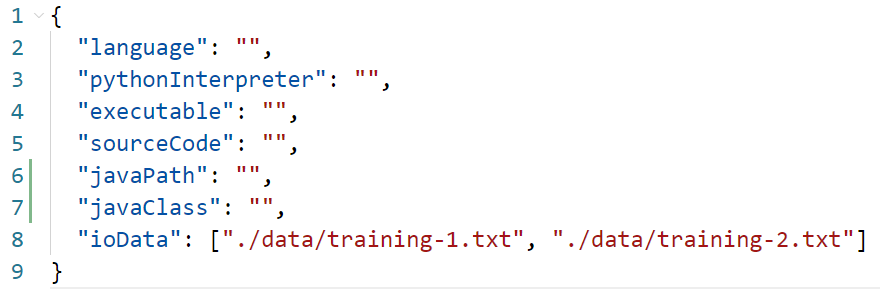
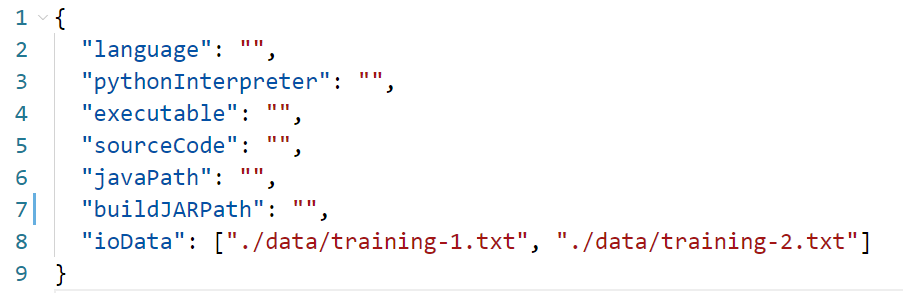
[update] 0.3.0更新：修改java的一些逻辑，加入新功能

diff --git a/autograder.py b/autograder.py
@@ -101,6 +101,7 @@ def grader(testCmd, ioData):
     migTot = 0
     migHappenTime = []
     bombInfo = []
+    migOverInfo = []
     for day_i in range(len(fullInfo)):
         day = fullInfo[day_i]
         for server in day['purchase']:
@@ -117,6 +118,8 @@ def grader(testCmd, ioData):
             dayServerInfo[target].append(source)
             VMIDMap[source] = target
             migTot += 1
+            if cnt >= int(len(VMIDMap) / 200):
+                migOverInfo.append(('migOverflow', day_i + 1, cnt, mig, int(len(VMIDMap) / 200)))
             if not check_bomb(target, dayServerInfo[target], serverDict, VMDict, serverIDMap, VMIDTypeMap):
                 bombInfo.append(
                     ('Migration', day_i + 1, cnt, mig, target, serverIDMap[target], serverDict[serverIDMap[target]],
@@ -176,7 +179,7 @@ def grader(testCmd, ioData):
     plt.plot(range(len(fullInfo)), emptyRate, label='Empty Ratio')
     plt.xlabel('Days')
     plt.ylabel('Ratio')
-    plt.title('闲置率')
+    plt.title('Empty Ratio (How many servers are not in use)')
     plt.legend()
     plt.savefig(os.path.join(folderName, '1.png'))
     plt.clf()
@@ -184,7 +187,7 @@ def grader(testCmd, ioData):
     plt.plot(range(len(fullInfo)), energyCost, label='Energy Cost')
     plt.xlabel('Days')
     plt.ylabel('Money')
-    plt.title('运行成本')
+    plt.title('Energy Cost (When a server is in use, it leads to energy cost)')
     plt.legend()
     plt.savefig(os.path.join(folderName, '2.png'))
     plt.clf()
@@ -192,7 +195,7 @@ def grader(testCmd, ioData):
     plt.plot(range(len(fullInfo)), migHappenTime, label='Migration Times')
     plt.xlabel('Days')
     plt.ylabel('Times')
-    plt.title('迁移次数')
+    plt.title('Migration Times')
     plt.legend()
     plt.savefig(os.path.join(folderName, '3.png'))
     plt.clf()
@@ -200,12 +203,12 @@ def grader(testCmd, ioData):
     labels = ['{}\n{}cpu\n{}mem'.format(s, serverDict[s]['cpu'], serverDict[s]['memory']) for s in serverNums.keys()]
     sizes = list(serverNums.values())
     plt.pie(sizes, labels=labels, autopct='%1.2f%%')
-    plt.title('服务器占比')
+    plt.title('Server Types')
     plt.savefig(os.path.join(folderName, '4.png'))
     plt.clf()
 
     return os.path.split(ioData)[-1], hardCost, sum(energyCost), endTime - beginTime, sum(emptyRate) / len(
-        emptyRate), sum(energyCost) / len(energyCost), folderName, migTot, bombInfo
+        emptyRate), sum(energyCost) / len(energyCost), folderName, migTot, bombInfo, migOverInfo
 
 
 if __name__ == '__main__':
@@ -219,10 +222,10 @@ if __name__ == '__main__':
         exe = config['executable']
         sourceCode = config['sourceCode']
         javaPath = config['javaPath']
-        javaClassFile = config['javaClass']
+        javaJARFile = config['buildJARPath']
         ioDataList = config['ioData']
         print('AutoGrader Running with args: {}'.format(
-            [language, pypyPath, exe, sourceCode, javaPath, javaClassFile, ioDataList]))
+            [language, pypyPath, exe, sourceCode, javaPath, javaJARFile, ioDataList]))
 
         for d in tqdm(ioDataList, ncols=40):
             if language == 'c' or language == 'c++':
@@ -233,12 +236,13 @@ if __name__ == '__main__':
                 else:
                     testCmd = 'python \"{}\"<\"{}\"'.format(sourceCode, d)
             elif language == 'java':
-                filePath, classPath = os.path.split(javaClassFile)
-                classPath = os.path.splitext(classPath)[0]
+                filePath, JARPath = os.path.split(javaJARFile)
                 if javaPath:
-                    testCmd = '\"{}\" -cp \"{}\" \"{}\"<\"{}\"'.format(javaPath, filePath, classPath, d)
+                    testCmd = '\"{}\" -Djava.library.path=\"{}\" -classpath \"{}\" \"com.huawei.java.main.Main\"<\"{}\"'.format(
+                        javaPath, filePath, javaJARFile, d)
                 else:
-                    testCmd = 'java -cp \"{}\" \"{}\"<\"{}\"'.format(filePath, classPath, d)
+                    testCmd = 'java -Djava.library.path=\"{}\" -classpath \"{}\" \"com.huawei.java.main.Main\"<\"{}\"'.format(
+                        filePath, javaJARFile, d)
             else:
                 raise ValueError('unsupport language')
             _ = grader(testCmd, d)
@@ -250,5 +254,7 @@ if __name__ == '__main__':
         os.popen('start chrome.exe {}'.format(os.path.join(os.path.dirname(os.path.abspath(__file__)), res)))
     elif sys == 'Linux':
         os.popen('google-chrome {}'.format(os.path.join(os.path.dirname(os.path.abspath(__file__)), res)))
-        print('你正在使用Linux系统，可能无法打开网页报错，请尝试把目录下最新生成的html和resource拷贝到Windows下查看\n'
-              '由于图像使用Matplotlib绘制，在Linux系统下会出现中文文字变成方框的问题，建议在Windows平台运行AutoGrader以获得最佳体验。')
+        print('你正在使用Linux系统，可能无法打开网页或报错，请尝试用默认浏览器打开目录下最新生成的html或者将html和resource拷贝到Windows下查看\n')
+    elif sys == 'Darwin':
+        os.popen('open -a Safari {}'.format(os.path.join(os.path.dirname(os.path.abspath(__file__)), res)))
+        print('你正在使用Mac系统，可能无法打开网页或报错，请尝试用默认浏览器打开目录下最新生成的html或者将html和resource拷贝到Windows下查看\n')

diff --git a/genHTML.py b/genHTML.py
@@ -67,7 +67,7 @@ bombContain = """
                 <th>错误信息</th>
                 <th>错误请求</th>
                 <th>错误服务器ID</th>
-                <th>挂载虚拟机列表(简略)</th>
+                <th>挂载虚拟机列表(仅显示最后5个虚拟机)</th>
               </tr>
               BOMBINNER
             </table>
@@ -96,13 +96,14 @@ def gen(ls, showHeader=False):
                     out.write(line)
                 else:
                     existHeader = False
-                    for (ioName, hardCost, energyCost, timeCost, emptyRate, energyAVG, folder, mig, bombInfo) in ls:
+                    for (ioName, hardCost, energyCost, timeCost, emptyRate, energyAVG, folder, mig, bombInfo,
+                         migOverInfo) in ls:
                         contain = mainContain
                         if showHeader and not existHeader:
                             contain = header.replace('CCCOST', str(sum([k[1] + k[2] for k in ls]))) + contain
                             existHeader = True
                         contain = contain.replace('DOC_NAME', ioName)
-                        contain = contain.replace('ICON_TYPE', 'right' if not bombInfo else 'warning')
+                        contain = contain.replace('ICON_TYPE', 'warning' if bombInfo or migOverInfo else 'right')
                         contain = contain.replace('IMG1', os.path.join(folder, '1.png'))
                         contain = contain.replace('IMG2', os.path.join(folder, '2.png'))
                         contain = contain.replace('IMG3', os.path.join(folder, '3.png'))
@@ -114,16 +115,38 @@ def gen(ls, showHeader=False):
                         contain = contain.replace('EMPTY_RATIO', str(round(emptyRate * 100, 6)) + ' % ')
                         contain = contain.replace('ENERGY_AVG', str(energyAVG))
                         contain = contain.replace('MIG_TIMES', str(mig))
-                        if bombInfo:
+                        if bombInfo or migOverInfo:
                             totalBombInfo = """"""
-                            for b in bombInfo[:50 if len(bombInfo) > 50 else len(bombInfo)]:
-                                bs = bombStyle
-                                bs = bs.replace('BOMB_TYPE', '资源分配溢出')
-                                bs = bs.replace('BOMB_INFO', '发生于第{}天的第{}条{}操作'.format(b[1], b[2], b[0]))
-                                bs = bs.replace('BOMB_REQ', '({},{},{})'.format(b[3][0], b[3][2], b[3][1]))
-                                bs = bs.replace('BOMB_SERVER_ID', '{} ({},{})'.format(b[4], b[5], b[6]))
-                                bs = bs.replace('BOMB_SERVER_VM', '{}'.format(b[7]))
-                                totalBombInfo += bs
+                            if migOverInfo:
+                                for b in migOverInfo[:10 if len(migOverInfo) > 10 else len(migOverInfo)]:
+                                    bs = bombStyle
+                                    bs = bs.replace('BOMB_TYPE', '虚拟机迁移超过上限')
+                                    bs = bs.replace('BOMB_INFO',
+                                                    '发生于第{}天的第{}条迁移操作，允许迁移次数最大为{}'.format(b[1], b[2], b[4]))
+                                    if b[3][1][1]:
+                                        bs = bs.replace('BOMB_REQ',
+                                                        '({},{},{})'.format(b[3][0], b[3][1][0], b[3][1][1]))
+                                    else:
+                                        bs = bs.replace('BOMB_REQ', '({},{})'.format(b[3][0], b[3][1][0]))
+                                    bs = bs.replace('BOMB_SERVER_ID', '')
+                                    bs = bs.replace('BOMB_SERVER_VM', '')
+                                    totalBombInfo += bs
+                            if bombInfo:
+                                for b in bombInfo[:50 if len(bombInfo) > 50 else len(bombInfo)]:
+                                    bs = bombStyle
+                                    bs = bs.replace('BOMB_TYPE', '资源分配溢出')
+                                    bs = bs.replace('BOMB_INFO', '发生于第{}天的第{}条{}操作'.format(b[1], b[2], b[0]))
+                                    if b[3][0] == 'add':
+                                        bs = bs.replace('BOMB_REQ', '({},{},{})'.format(b[3][0], b[3][2], b[3][1]))
+                                    else:
+                                        if b[3][1][1]:
+                                            bs = bs.replace('BOMB_REQ',
+                                                            '({},{},{})'.format(b[3][0], b[3][1][0], b[3][1][1]))
+                                        else:
+                                            bs = bs.replace('BOMB_REQ', '({},{})'.format(b[3][0], b[3][1][0]))
+                                    bs = bs.replace('BOMB_SERVER_ID', '{} ({},{})'.format(b[4], b[5], b[6]))
+                                    bs = bs.replace('BOMB_SERVER_VM', '{}'.format(b[7]))
+                                    totalBombInfo += bs
                             bc = bombContain.replace('BOMBINNER', totalBombInfo)
                             contain = contain.replace('BOMBINFO', bc)
                         else:

diff --git a/README.md b/README.md
@@ -1,6 +1,6 @@
 # AutoGrader
 
-- 0.2.0更新：加入资源分配溢出检测，如果发生资源溢出会输出溢出发生的位置。
+- **0.2.0更新**：加入资源分配溢出检测，如果发生资源溢出会输出溢出发生的位置。
 
   - 如果通过检测，会显示通过符号![image-20210312210156727](./ScreenShot/3.png)
 
@@ -18,9 +18,15 @@
 
 - 0.2.5更新：默认python路径会导致一个bug，现在已经修复，感谢Yjh-Rking的反馈。
 
-**网页不再使用index.html的统一名称，改为当前时间戳，方便保存对比。**
+- **0.3.0更新**：
 
-**由于图像使用Matplotlib绘制，在Linux系统下会出现中文文字变成方框的问题，建议在Windows平台运行AutoGrader以获得最佳体验。**
+  - 加入迁移次数检测，按照比赛规则每天迁移次数不应超过总虚拟机数量的千分之五。
+  - 修改Java程序分析逻辑，现在应该不会再有奇怪的除0了。
+  - 图片标题改用英文，避免字体导致的乱码。
+  - 新增不同平台的tips。
+  - config已改动，使用以前版本的config将导致错误，请使用新版config并遵照食用方法给出的说明填写。
+
+**网页不再使用index.html的统一名称，改为当前时间戳，方便保存对比。**
 
 ## 1.说明
 
@@ -32,7 +38,7 @@
 
 2. 使用你的文本编辑器（记事本、NotePad++、VSCode等）打开目录中的`config.json`文件，你将看到以下内容：
 
-   ![image-20210314200207973](./ScreenShot/1.png)
+   ![image-20210315165924650](./ScreenShot/1.png)
 
    字段意义：
 
@@ -41,16 +47,16 @@
    - **executable**：如果language为c或c++，请给出编译后的可执行文件(exe)的路径。
    - **sourceCode**：如果language为python，请给出python脚本所在的路径。
    - **javaPath**：如果language为java，请给出java路径，如果留空则为默认java。请在cmd中键入“java -version”来检查是否存在默认java解释器。
-   - **javaClass**：如果language为java，请给出javaClass文件，也就是你已经用javac编译过的文件，如果不会编译请百度。
+   - **buildJARPath**：如果language为java，请给出你使用比赛给出的build.sh文件构建出的jar文件路径，也就是bin文件夹中的那个CodeCraft-2021.jar的位置。
    - **ioData**：输入文件，以列表形式存在，其中每一个字符串为一个输入文件。
 
 3. 
 
-   如果你是C/C++选手，请在language中填入c++，然后在executable字段中给出编译后的可执行文件所在路径，并修改你的程序接受的输入文件所在的位置，填入到ioData字段中。
+   如果你是C/C++选手，请在**language**中填入c++，然后在**executable**字段中给出编译后的可执行文件所在路径，并修改你的程序接受的输入文件所在的位置，填入到**ioData**字段中。
 
-   如果你是Python选手，请在language中填入python，然后在PythonInterpreter中指定解释器，留空则为默认python解释器。在sourceCode字段填入你的python脚本所在路径，并给出程序接收的输入文件。
+   如果你是Python选手，请在**language**中填入python，然后在**PythonInterpreter**中指定解释器或留空，留空则为默认python解释器。在**sourceCode**字段填入你的python脚本所在路径，并给出程序接收的输入文件。
 
-   如果你是Java选手，请在language中填入java，然后在javaPath中指定java路径，留空则使用默认java解释器。在javaClass字段中填入你已经使用javac编译好的.class文件，并给出程序接受的输入文件，请注意，华为提供的模板在开头会有package语句导致路径问题，请在本地运行autoGrader时将其删除，但请不要忘记提交时加上package语句。
+   如果你是Java选手，请在**language**中填入java，然后在javaPath中指定java路径或留空，留空则使用默认java解释器。在**buildJARPath**字段中填入你使用比赛SDK中build.sh生成的jar的位置，一般情况下它位于build.sh同级目录下的bin文件夹中，名为**CodeCraft-2021.jar**，并给出程序接受的输入文件。
 
    **注意：**
 
@@ -72,6 +78,10 @@
 
 `autograder`运行结束后将在当前路径生成index.html并**自动使用Chrome**打开，你将看到类似的页面
 
-![image-20210312183146233](./ScreenShot/2.png)
+![image-20210315170424436](./ScreenShot/2.png)
 
-**如果你没有安装Chrome，请手动打开index.html**
+## 3.其他说明
+
+1. 如果你使用的是Windows，默认情况下程序会使用Chrome打开报告，但如果你没有安装Chrome或者打开失败，请手动使用浏览器打开autograder同级目录下生成的最新html来查看报告，网页以时间戳命名。
+2. 如果你使用的是Linux，html的排版有概率出现问题，如果出现排版和乱码问题，请尝试将html和resource文件夹拷贝到Windows平台查看。
+3. 欢迎提交PR及issue。
